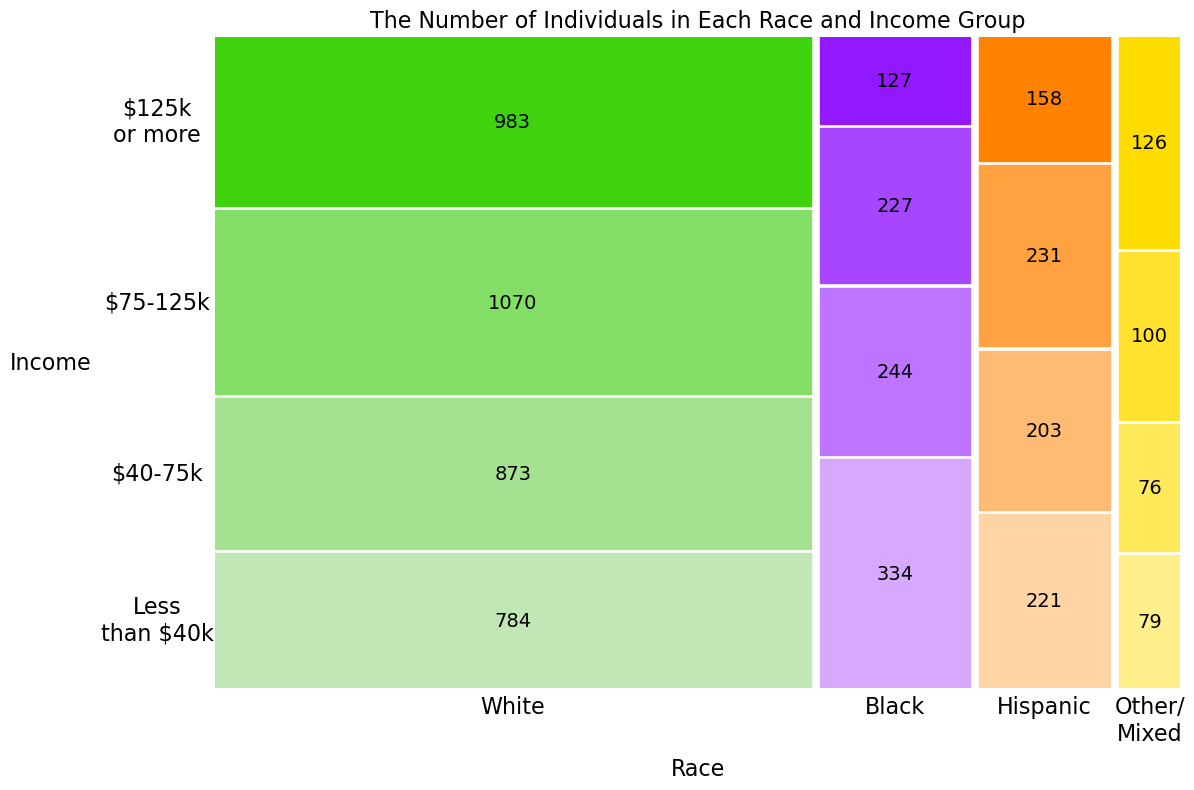
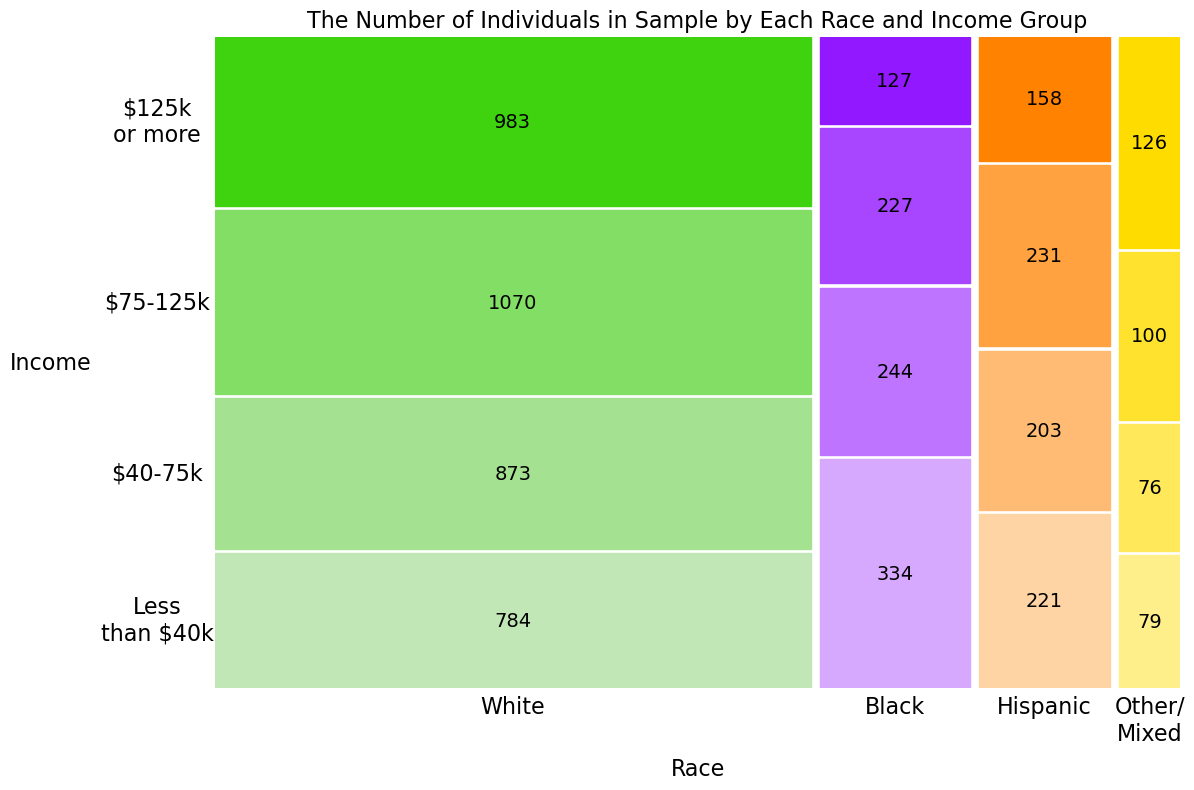
updated according to dad's comment🙇♀

Changed region(s): [[0.2479, 0.0, 0.8987, 0.0608]]

diff --git a/index_copy.html b/index_copy.html
@@ -9,7 +9,7 @@
 
 <body>
 	<div class="preamble" id="zen-preamble" role="article">
-        <h1>Are Voting Tendency Similar by Race in the United States?</h1>
+        <h1>Are Voting Tendency by Race Similar in the United States?</h1>
 
         <h2>Introduction</h2>
             It is a widely known fact that people with high income or higher education are more likely to have a higher voting tendency
@@ -17,29 +17,29 @@
             It is also known that young people are more likely to have lower voting tendency compared to elders 
 			<a href="https://www.nytimes.com/2020/10/08/upshot/youth-voting-2020-election.html">[2]</a>.
             However, there is no clear proposition on racial disparities in voting tendencies &#8212;
-            most researches studying voting tendency by race only show the percentage of the voter turnout.
+            most researches studying voting tendency by race groups only show the voter turnout ratios.
             They do not study what voting tendency certain ethnic group shows
             <a href="https://www.pewresearch.org/fact-tank/2020/10/26/what-the-2020-electorate-looks-like-by-party-race-and-ethnicity-age-education-and-religion/">[3]</a>.
-            Through analyzing the voting pattern of American population, we will examine whether the people of each race vote differently.
+            Through analyzing the voting pattern of American population, we will examine whether each race group votes differently.
             
-        <h2>About the data</h2>
+        <h2>About the Data</h2>
 
-            The data for the research comes from a survey for <cite>FiveThirtyEight</cite> <a href="https://projects.fivethirtyeight.com/non-voters-poll-2020-election/">[4]</a>.
+            The data for the research comes from a survey conducted by <cite>FiveThirtyEight</cite> <a href="https://projects.fivethirtyeight.com/non-voters-poll-2020-election/">[4]</a>.
             The survey data can be found from their GitHub as well <a href="https://github.com/fivethirtyeight/data/tree/master/non-voters">[5]</a>.
             The survey has asked 5,355 citizens of the United States in total. 
 			The sample includes 3,710 White people, 932 Black people, 813 Hispanic people, and 381 other/mixed people.
             By income group, it consists 1,394 people who makes more than $125k a year, 1,628 people of $75-125k a year, 1,396 people of $40-75k a year, and 1,418 people of less than $40k a year.
-            The following figure shows the composition of the sample by race and income group.
+            The following figure shows the composition of sample by race and income group.
 
             <figure>
                 <img src="figures/00_mosaic.png" class="responsive">
-                <figcaption>Figure 1: A mosaic plot showing visual representation of each race and income group.</figcaption>
+                <figcaption>Figure 1: Mosaic plot showing visual representation of each race and income group.</figcaption>
             </figure>
 
             This composition was weighted to represent the population of the U.S. citizens.
             One thing to notice is that the survey was taken from September 15th to September 25th of 2020, which is before the 2020 presidential election.
 
-        <h2>Voting Tendency of the Voters based on Race</h2>
+        <h2>Voting Tendency of Each Race Group</h2>
 			<p>
 				First, we will examine if there are any significant differences in the voting tendencies by race within each income group. 
 				The visualization shows what percentage of the people always vote, sporadically vote, or never vote for each racial and income classification.
@@ -51,11 +51,11 @@
 				</ul>
 				<figure>
 					<img src="figures/01_stackedBarPlot.png" class="responsive"> <!--class="center" style = "width: 1000px">-->
-					<figcaption>Figure 2: A stacked bar plots representing the percentage of the population's voting tendency based on their race and income.
-						<br>The number above the stacked bar shows the number of sample in each group.
+					<figcaption>Figure 2: Stacked bar plots representing voting tendency by race and income group.
+						<br>The number above the stacked bar stands for the number of sample in each group.
 					</figcaption>
 				</figure>
-				Through this figure, we can see that the White voters and the Black voters have similar voting patterns across various income. 
+				Through this figure, we can see that the White voters and the Black voters have similar voting patterns across various income level. 
 				On the other hand, Hispanic and others/mixed voters are less likely to vote than White and Black constituencies. 
 				This pattern is more apparent for the income groups of '$125k or more' and '$40-75k.' 
 				We can also observe that the number of people who always vote or sporadically votes decreases as income decreases. 
@@ -72,7 +72,7 @@
 			<p>
 				Next, we will study the voting trend of the surveyed population. 
 				The plot below shows what percentage of people voted <!--or did not vote--> in the recent six elections.
-				The trend of the percentage of people who voted for each income group are similar to that of figure 2:
+				The trend of the ratio of people who voted for each income group are similar to that of Figure 2:
 				the people with high income have voted more during the past elections, while the people with low income have voted less.
 				The plot also looks like a wave which shows that more people tend to vote for the presidential election than the congressional elections. 
 				Thus, we can learn that the population perceives presidential elections more importantly than the congressional election. 
@@ -82,63 +82,63 @@
 			
 			<figure>
 				<img src="figures/02_time.png" class="responsive">
-				<figcaption>Figure 3: A line plot showing the percentage of the sample who voted for the six recent elections based on their race and income.</figcaption>
+				<figcaption>Figure 3: Line plot showing voting tendency by race and income group for the six recent elections.</figcaption>
 			</figure>
 			
 			<p>
-				The trend of the percentage of people who voted for each race group resembles figure 2 as well.
-				Across all income categories, the Black constituencies have frequently voted the most out of all races, 
+				The trend of the ratio of people who voted for each race group resembles Figure 2 as well.
+				Over all income groups, the Black constituencies have frequently voted the most out of all races, 
 				then followed by the White constituency.
 				The Hispanic constituency have voted more than the other/mixed constituency for the income of $120k or more,
 				while they have voted less for the $75-125k and $40-75k.
-				However, for the less than $40k income group, it is difficult to determine whether it is the Hispanics voter or the other/mixed voter who voted more, because, 
-				as described above, the Hispanic constituency voted more for some of the elections while other/mixed constituency voted more for the other elections.
+				However, for the less than $40k income group, it is difficult to determine whether it is the Hispanics voter or the other/mixed voter who voted more, 
+				because, as described above, 
+				the Hispanic constituency voted more for some of the elections while other/mixed constituency voted more for the other elections.
 			</p>
 
 			<p>
-				One warning about this plot is that the data have some inconsistency between its voting history and voting tendency categorization.
+				One warning about this plot is that the data have some discrepancy between its voting history and voting tendency categorization.
 				The voting history was aggregated based on question 21 of the survey, which asked which of the recent elections did they vote
 				<a href="https://github.com/fivethirtyeight/data/blob/master/non-voters/nonvoters_codebook.pdf">[5]</a>.
 				However, some people's voting history does not reflect the voting tendency they are classified as.
-				Therefore, the grouping of voting tendency within the data may not be the most accurate representation of how the U.S. population votes.
+				Thus, the voting tendency classification of the data may not be the most accurate representation of how the U.S. population votes.
 			</p>
         
-        <h2>Will the People Vote in the Future Election?</h2>
+        <h2>Are the People Planning to Vote in the Future Election?</h2>
 			<p>
-				To further the analyzation, we will study whether if there is any notable difference on how people plan to vote for the future election
-				depending on their race or income.
+				For further analyzation, we will study whether there is any notable difference 
+				on how people plan to vote for the future election depending on their race or income.
 				<!-- One thing different about this plot is that it is not expressed as a percentage.-->
 				Figure 4 shows that as the income decreases, there are more people who decides to not participate in the election.
-				This observation is in line with the findings of figure 2 and figure 3.
+				This observation is in line with the findings of Figure 2 and Figure 3.
 				However, with a few exceptions, the proportion of people who plans to vote are similar across all race groups.
-				The few exceptions are the Hispanic constituency of the '$75-125k' income group and the other/mixed constituency for the '$40-75k' income group.	
+				The few exceptions are the Hispanic constituency of the '$75-125k' income group and the other/mixed constituency of the '$40-75k' income group.	
 			</p>
 		
 			<figure>
 				<img src="figures/03_futureVoting.png" class="responsive">
-				<figcaption>Figure 4: The percentage of the population's voting plan for the 2020 presidential electino based on their race and income category.
-					<br>Percentage less than 10 was ommitted when labeling the figure.
+				<figcaption>Figure 4: Voting plan by race and income group for the 2020 Presidential Election.
+					<br>The number above the stacked bar stands for the number of sample in each group.
+					<br>Percentage less than 10 was hid for labeling convenience. The numbers could be provided upon request.
 				</figcaption>
 			</figure>
         
         <h2>Conclusion</h2>
 			<p>
 				Through data visualization, the voting tendency by race and income groups was examined.
-				Black constituency tends to have more proportion of people that choose to vote among all income categories, 
-				and White constituency is has the second to the largest percentage of people choosing to vote.
-				In general, Hispanic constituency has the third to the largest ratio of people choosing to vote, 
-				but this may change depending on which election is being discussed.
-				Lastly, other/mixed constituency has the smallest proportion of people choosing to vote.
-				Yet, when we asked the eligible voters if they plan to vote for the future election,
-				within each income group, similar percentage of people answered that they will across all races.
+				Black constituency has high propensity to vote over all income categories, followed by White constituency.
+				Voting tendency of Hispanic constituency is ranked as third place, but this is changeable depending on which election is being discussed.
+				Other/mixed constituency has the lowest voting tendency.
+				When we asked the eligible voters if they plan to vote for the future election,
+				similar percentage of people within each income group answered that they will across all races.
 			</p>
 			<p>
 				In the future, this research can be furthered investigated by analyzing 
-				why a certain race is choosing to not vote compared to other races.
+				why a certain race group has high propensity to not vote compared to other races.
 				There could be various factors preventing people from voting or making people choose not to vote.
 				For instance, it could be the lack of belief in the United States election system or the difficulty to actually make a ballot.
 				Using the question from the surveys conducted by <cite>FiveThirtyEight</cite>, where the dataset used for this analysis came from,
-				we can have a closer understanding of which component of the U.S election system and its nature contributes to the imbalance of the votng tendency by race groups.
+				we can have a closer understanding of which component of the U.S election system and its nature contributes to the imbalance of the voting tendency by race groups.
 				<a href="https://github.com/fivethirtyeight/data/blob/master/non-voters/nonvoters_codebook.pdf">[6]</a>.
 			</p>
         
@@ -148,7 +148,7 @@
     <p></p>
 
     <footer>
-        <b>Minkyong Song<br>William & Mary</b>
+        <b><a href="https://github.com/minkysong/voting_tendency/" class="footer">Minkyong Song</a><br><a href="https://www.wm.edu" class="footer">William & Mary</a></b>
     </footer>
 
 	<!--

diff --git a/css/style.css b/css/style.css
@@ -231,3 +231,7 @@ footer {
 	bottom: 0;
 	width: 100%;
 	}
+
+footer a:link, a:visited{
+	color: #fff;
+	}
